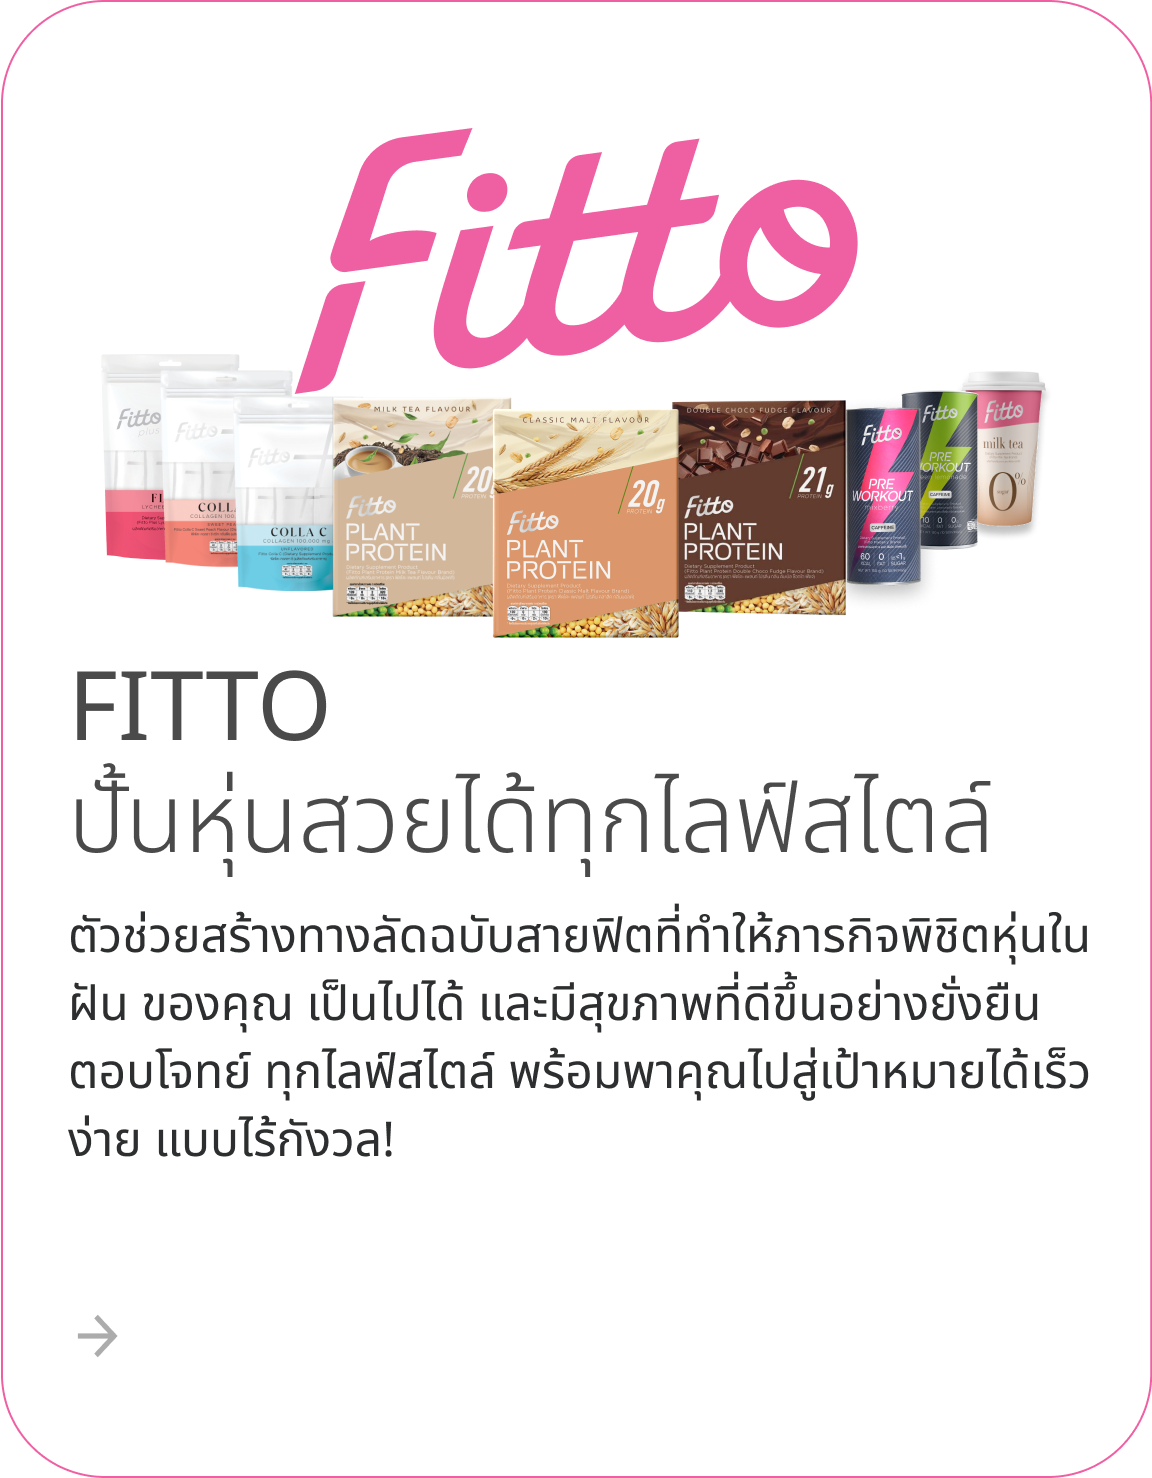
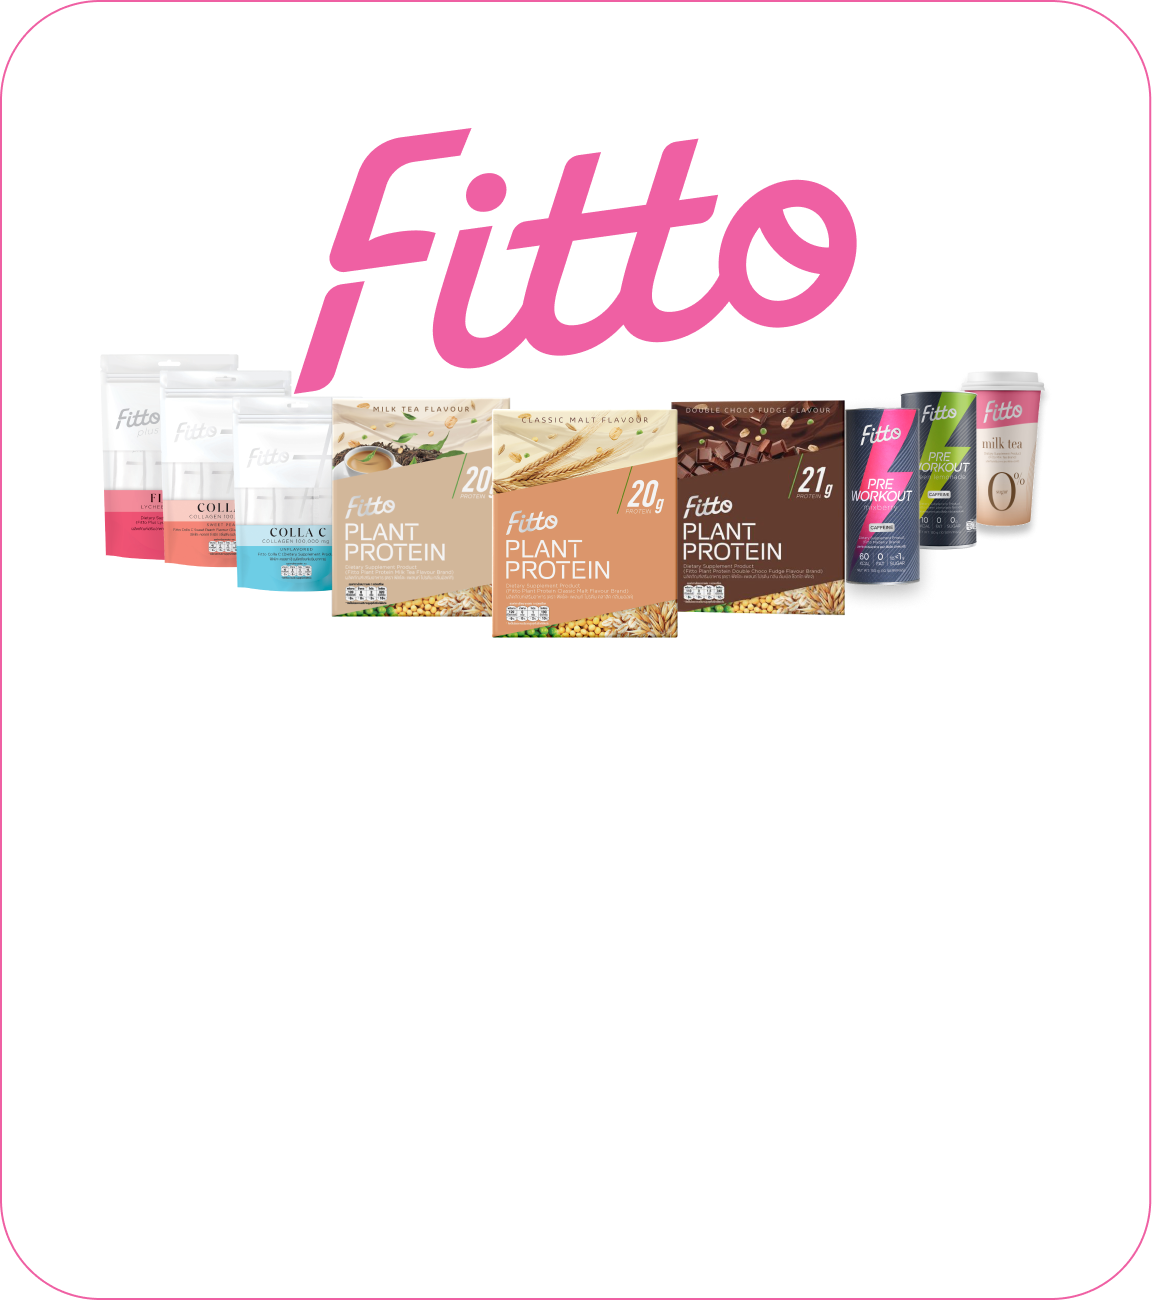
ทำหน้า Home ในส่วน Fitto item

diff --git a/src/views/pynk/home.js b/src/views/pynk/home.js
@@ -9,7 +9,6 @@ import frame37409 from "../../assets/img/home/frame37409.png";
 import frame37410 from "../../assets/img/home/frame37410.png";
 import frame37547 from "../../assets/img/home/frame37547.png";
 import frame37549 from "../../assets/img/home/frame37549.png";
-import "./css/home.css";
 import Footer from "./footer";
 import { useHistory } from "react-router-dom";
 
@@ -21,6 +20,7 @@ const Home = () => {
   const { ref: textHome2, inView: textHome2ISVisible } = useInView();
   const { ref: bounceContainer, inView: bounceContainerISVisible } =
     useInView();
+  const { ref: stayfitItem, inView: statfitItemISVisible } = useInView();
 
   const images = [slide1, slide2, slide3];
 
@@ -46,7 +46,7 @@ const Home = () => {
   }, []);
 
   return (
-    <>
+    <div className="page">
       <div className="slider-container">
         <div className="slider">
           {images.map((image, index) => (
@@ -95,6 +95,8 @@ const Home = () => {
                     left: "0%",
                     marginBottom: "0px",
                     position: "absolute",
+                    fontFamily: "SemiBoldPynk",
+                    fontSize: "18px",
                   }}
                 >
                   เริ่มฟิตไปด้วยกัน
@@ -122,6 +124,8 @@ const Home = () => {
                     left: "0%",
                     marginBottom: "0px",
                     position: "absolute",
+                    fontFamily: "SemiBoldPynk",
+                    fontSize: "18px",
                   }}
                 >
                   เริ่มฟิตไปด้วยกัน
@@ -145,6 +149,8 @@ const Home = () => {
                     left: "0%",
                     marginBottom: "0px",
                     position: "absolute",
+                    fontFamily: "SemiBoldPynk",
+                    fontSize: "18px",
                   }}
                 >
                   เริ่มฟิตไปด้วยกัน
@@ -160,11 +166,11 @@ const Home = () => {
           ref={textHome2}
           className={`head-home2 ${textHome2ISVisible && "animate-text-home2"}`}
         >
-          <p className="text48">
+          <p className="text48 text-align-center SemiBoldPynk">
             บริการที่ทำให้คุณออกกำลังกายอย่างมีความสุข
             และทำได้จนเป็นส่วนหนึ่งของชีวิตประจำวัน
           </p>
-          <p className="text32">
+          <p className="text32 text-align-center MediumPynk">
             “ไม่ใช่แค่หุ่นดี แต่มันคือการรักตัวเองอย่างมีความสุข”
           </p>
         </div>
@@ -213,13 +219,13 @@ const Home = () => {
                 ></div>
               </div>
               <div className="second-content-bubble">
-                <p className="text-home2-128px regular">STAY FIT</p>
-                <p className="text-home2-48px medium">WITH BEBE</p>
-                <p className="text-home2-24px semi-bold">
+                <p className="text-home2-128px LightPynk">STAY FIT</p>
+                <p className="text-home2-48px LightPynk">WITH BEBE</p>
+                <p className="text-home2-24px SemiBoldPynk">
                   คอร์สสอนออกกำลังกายสุดปังจากวงการเบเบ้
                   ที่จะพาคุณมาอัปเกรดความฟิต ด้วยโปรแกรม 8 สัปดาห์
                 </p>
-                <p className="text-home2-24px regular">
+                <p className="text-home2-24px RegularPynk">
                   ที่เบเบ้ออกแบบพิเศษให้เหมาะกับคุณ พร้อมการันตีความสนุก
                   และผลลัพธ์ของการเปลี่ยนแปลง มาแล้วมากกว่าสิบรุ่น!
                 </p>
@@ -234,24 +240,40 @@ const Home = () => {
           <div className="bubble5"></div>
         </div>
 
-        <div class="stayfit_item_grid">
+        <div ref={stayfitItem}
+          className={`stayfit-item-home2 ${statfitItemISVisible && "animate-stayfit-item"}`}>
           <div class="grid-item">
-            {" "}
-            <img src={frame37409} className="frame37409" alt="" />
+            <img src={frame37409} alt="" />
+            <div className="first-content-stayfit">
+              <p className="text48 LightPynk">FIT ITEMS</p>
+              <p className="text24 RegularPynk">
+                ให้เรื่องการออกกำลังกายเป็นเรื่องที่ ง่าย และใกล้ตัว ด้วยอุปกรณ์
+                ออกกำลังกายสไตล์เบเบ้ที่พร้อมตอบโจทย์
+                ทุกไลฟ์สไตล์ของสายฟิตที่ไม่ว่าคุณจะเป็นสายฟิตมือใหม่
+                หรือสายฟิตมือโปรก็สามารถสนุกไปกับการออกกำลังกายที่บ้านได้แบบไม่จำเจ
+              </p>
+            </div>
           </div>
           <div class="grid-item">
-            <img src={frame37410} className="frame37410" alt="" />
+            <img src={frame37410} style={{ marginLeft: "50px" }} alt="" />
+            <div className="second-content-stayfit">
+              <p className="text48 LightPynk" style={{ marginBottom: "0" }}>
+                FITTO
+              </p>
+              <p
+                className="text48 LightPynk"
+                style={{ marginBottom: "16px", marginTop: "-16px" }}
+              >
+                ปั้นหุ่นสวยได้ทุกไลฟ์สไตล์
+              </p>
+              <p className="text24 RegularPynk">
+                ตัวช่วยสร้างทางลัดฉบับสายฟิตที่ทำให้ภารกิจพิชิตหุ่นในฝัน ของคุณ
+                เป็นไปได้ และมีสุขภาพที่ดีขึ้นอย่างยั่งยืน ตอบโจทย์ ทุกไลฟ์สไตล์
+                พร้อมพาคุณไปสู่เป้าหมายได้เร็ว ง่าย แบบไร้กังวล!
+              </p>
+            </div>
           </div>
         </div>
-        {/* <div class="stayfit_item">
-                <div class="column" >
-                    <img src={frame37409} alt="" className="frame37409" />
-                </div>
-                <div class="column" >
-                    <img src={frame37410} alt="" className="frame37410" />
-                </div>
-            </div> */}
-        {/* </div> */}
       </div>
       <div
         className="background37399" /*  style={{ backgroundImage: `url(${home2})`, backgroundSize: '500px 500px', }}  */
@@ -262,7 +284,7 @@ const Home = () => {
       <img src={frame37549} alt="" className="frame37549" />
 
       <Footer />
-    </>
+    </div>
   );
 };
 

diff --git a/src/views/pynk/css/home.css b/src/views/pynk/css/home.css
@@ -4,32 +4,73 @@
   font-weight: normal;
   src: url(../../../fontsPynk/NotoSansThai-Light.ttf);
 }
-
 @font-face {
   /* font-family: "BdCondHe"; */
   font-family: "ThinPynk";
   src: url(../../../fontsPynk/NotoSansThai-Thin.ttf);
 }
-
 @font-face {
   /* font-family: "Regular"; */
   font-family: "RegularPynk";
   src: url(../../../fontsPynk/NotoSansThai-Regular.ttf);
 }
-
-
 @font-face {
   /* font-family: "Medium"; */
   font-family: "MediumPynk";
   src: url(../../../fontsPynk/NotoSansThai-Medium.ttf);
 }
-
 @font-face {
   /* font-family: "SemiBold"; */
   font-family: "SemiBoldPynk";
   src: url(../../../fontsPynk/NotoSansThai-SemiBold.ttf);
 }
+@font-face {
+  /* font-family: "SemiBold"; */
+  font-family: "BoldPynk";
+  src: url(../../../fontsPynk/NotoSansThai-Bold.ttf);
+}
 
+.LightPynk{
+  font-family: "LightPynk";
+}
+.ThinPynk{
+  font-family: "ThinPynk";
+}
+.RegularPynk{
+  font-family: "RegularPynk";
+}
+.MediumPynk{
+  font-family: "MediumPynk";
+}
+.SemiBoldPynk{
+  font-family: "SemiBoldPynk";
+}
+.BoldPynk{
+  font-family: "BoldPynk";
+}
+.text128 {
+  font-size: 128px;
+  text-align: left;
+  margin-bottom: 0px;
+}
+.text48 {
+  font-size: 48px;
+}
+.text32 {
+  font-size: 32px;
+}
+.text24 {
+  font-size: 24px;
+}
+.text-align-center{
+  text-align: center;
+}
+@media only screen and (min-width: 1680px) {
+  .page {
+    width: 1680px;
+    margin: 0 auto;
+  }
+}
 
 
 @media screen and (max-width: 320px) {
@@ -75,18 +116,6 @@
     margin-right: 25px !important;
   }
 }
-.regular{
-  font-weight: 400;
-}
-.medium{
-  font-weight: 500;
-}
-.semi-bold{
-  font-weight: 600;
-}
-.bold{
-  font-weight: 700;
-}
 
 .frame37407 {
   padding-top: 70px;
@@ -98,36 +127,6 @@
   width: 45%;
 }
 
-.frame37408 {
-  /* padding: 60px; */
-  text-align: center;
-  display: block;
-  justify-content: center;
-  align-items: center;
-  margin: auto;
-  width: 80%;
-}
-
-.frame37409 {
-  /* padding: 60px; */
-  text-align: center;
-  display: block;
-  justify-content: center;
-  align-items: center;
-  margin: auto;
-  width: 65%;
-}
-
-.frame37410 {
-  /* padding: 60px; */
-  text-align: center;
-  display: block;
-  justify-content: center;
-  align-items: center;
-  margin: auto;
-  width: 57%;
-}
-
 .frame37399 {
   text-align: center;
   display: block;
@@ -135,31 +134,6 @@
   align-items: center;
   margin: auto;
   width: 80%;
-}
-
-.column {
-  float: left;
-  width: 50%;
-  padding: 10px;
-  height: 300px;
-  /* Should be removed. Only for demonstration */
-}
-
-/* Clear floats after the columns */
-.stayfit_item {
-  text-align: center;
-}
-
-.stayfit_item:after {
-  content: "";
-  display: table;
-  clear: both;
-}
-
-.stayfit_item_grid {
-  padding: 51px;
-  display: grid;
-  grid-template-columns: auto auto;
 }
 
 .contact-grid-container {
@@ -348,25 +322,6 @@
   text-align: center;
   padding: 100px 22% 0 22%;
 }
-
-.text128 {
-  font-size: 128px;
-  font-weight: 600;
-  text-align: left;
-  margin-bottom: 0px;
-}
-.text48 {
-  font-size: 48px;
-  font-weight: 400;
-  text-align: center;
-}
-.text32 {
-  font-size: 32px;
-  font-weight: 500;
-  text-align: center;
-}
-
-
 .home2_1 {
   background-color: #007cff;
   width: 100%;
@@ -631,9 +586,6 @@
   }
 }
 
-
-
-
 .background-container-bounce{
   width: 1200px;
   height: 528px;
@@ -752,4 +704,48 @@
   50%{
     transform: translateY(-40px);
   }
+}
+
+.stayfit-item-home2 {
+  width: 1200px;
+  height: 812px;
+  margin-left: 214px;
+  padding-top: 5%;
+  display: grid;
+  grid-template-columns: auto auto;
+  opacity: 0;
+}
+.animate-stayfit-item{
+  animation: animate-stayfit-item .7s ease-in;
+  opacity: 1;
+}
+@keyframes animate-stayfit-item {
+  0% {
+    transform: scale(0);
+  }
+  100% {
+    transform: scale(1);
+  }
+}
+
+.grid-item{
+  width: 580px;
+  height: 650px;
+  display: flex;
+  position: relative;
+  text-align: left;
+}
+.first-content-stayfit{
+  position: absolute;
+  width: 90%;
+  height: 42%;
+  top: 50%;
+  left: 10%;
+}
+.second-content-stayfit {
+  position: absolute;
+  width: 90%;
+  height: 48%;
+  top: 50%;
+  left: 14%;
 }
